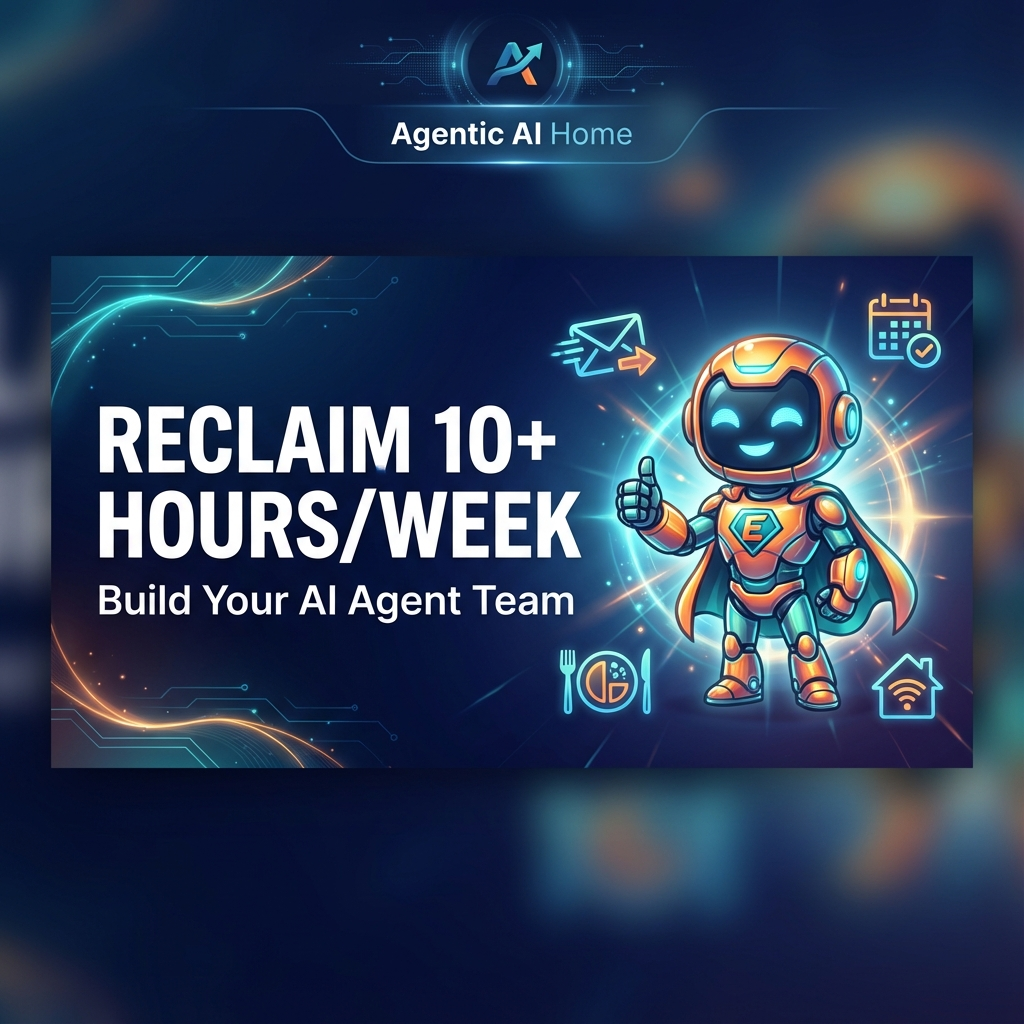
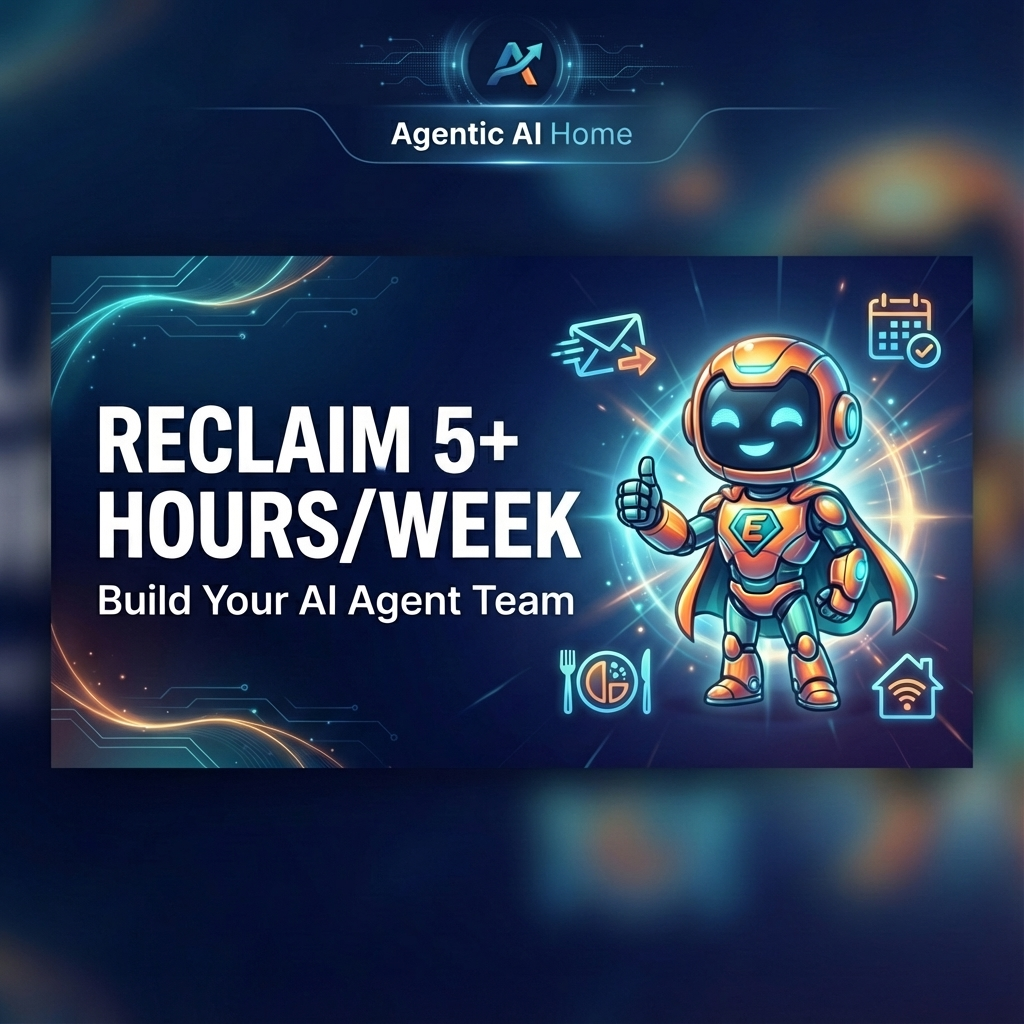
Update hours claims from 10 to 5+, fix game buttons, unlock all games on purchase

diff --git a/src/pages/GamesPage.jsx b/src/pages/GamesPage.jsx
@@ -114,22 +114,8 @@ const GamesPage = () => {
     ], []);
 
     const handleGameClick = (game) => {
-        // Check if unlocked
-        let isUnlocked = !game.unlockCondition;
-        try {
-            // Check if user has paid for full access (Ergo or Stripe)
-            const ergoPayment = JSON.parse(localStorage.getItem('ergo_payment') || '{}');
-            const stripePayment = JSON.parse(localStorage.getItem('stripe_payment') || '{}');
-            if (ergoPayment.paid === true || stripePayment.paid === true) isUnlocked = true;
-
-            isUnlocked = isUnlocked ||
-                localStorage.getItem(`unlocked_part_${game.unlockCondition}`) === 'true' ||
-                localStorage.getItem('beta_access') === 'true';
-        } catch (e) {
-            // Keep default locked state if storage fails
-        }
-
-        if (!isUnlocked) return; // Do nothing if locked (visuals handle the UI)
+        // Use the shared unlock check
+        if (!isGameUnlocked(game)) return;
 
         logEvent('Game', 'Select', game.id);
 
@@ -147,18 +133,22 @@ const GamesPage = () => {
         setLeaderboardOpen(true);
     };
 
-    // Helper to check unlock status
+    // Helper to check unlock status - ALL games unlock with purchase
     const isGameUnlocked = (game) => {
+        // Free games (no unlock condition) are always unlocked
         if (!game.unlockCondition) return true;
+
         try {
-            // Check if user has paid for full access (Ergo or Stripe)
+            // Check if user has paid for full access (Ergo or Stripe) - unlocks ALL games
             const ergoPayment = JSON.parse(localStorage.getItem('ergo_payment') || '{}');
             const stripePayment = JSON.parse(localStorage.getItem('stripe_payment') || '{}');
             if (ergoPayment.paid === true || stripePayment.paid === true) return true;
 
-            // Check beta access or individual part unlock
-            return localStorage.getItem(`unlocked_part_${game.unlockCondition}`) === 'true' ||
-                localStorage.getItem('beta_access') === 'true';
+            // Check beta access (also unlocks all games)
+            if (localStorage.getItem('beta_access') === 'true') return true;
+
+            // Not purchased - game is locked
+            return false;
         } catch (e) {
             return false;
         }
@@ -284,16 +274,16 @@ const GamesPage = () => {
                                                     </div>
                                                     <h3 className="text-xl font-bold text-white mb-2">Locked</h3>
                                                     <p className="text-slate-300 text-sm mb-4">
-                                                        Unlock by reading <strong className="text-teal-400">Part {game.unlockCondition}</strong>
+                                                        Unlock <strong className="text-teal-400">all games</strong> with full access
                                                     </p>
                                                     <button
                                                         onClick={(e) => {
                                                             e.stopPropagation();
-                                                            navigate(`/part${game.unlockCondition}`);
+                                                            navigate('/unlock');
                                                         }}
-                                                        className="px-4 py-2 bg-teal-600 hover:bg-teal-500 rounded-lg text-xs text-white transition-all flex items-center gap-2 font-medium"
+                                                        className="px-4 py-2 bg-gradient-to-r from-teal-500 to-cyan-500 hover:from-teal-400 hover:to-cyan-400 rounded-lg text-sm text-white transition-all flex items-center gap-2 font-bold shadow-lg"
                                                     >
-                                                        Start Part {game.unlockCondition}
+                                                        Start My Agent Army
                                                     </button>
                                                 </div>
                                             )}

diff --git a/src/components/gamification/CaptainClickChallenge.jsx b/src/components/gamification/CaptainClickChallenge.jsx
@@ -708,14 +708,14 @@ const CaptainClickChallenge = ({ onBack }) => {
                                 <div className="flex gap-3 justify-center">
                                     <m.button
                                         whileTap={{ scale: 0.95 }}
-                                        onClick={onBack}
+                                        onClick={(e) => { e.stopPropagation(); onBack?.(); }}
                                         className="bg-slate-700 hover:bg-slate-600 active:bg-slate-800 text-white px-4 sm:px-5 py-3 rounded-xl font-bold transition-all flex items-center gap-2 text-sm sm:text-base"
                                     >
                                         <ArrowLeft size={18} /> Back
                                     </m.button>
                                     <m.button
                                         whileTap={{ scale: 0.95 }}
-                                        onClick={startGame}
+                                        onClick={(e) => { e.stopPropagation(); startGame(); }}
                                         className="bg-gradient-to-r from-orange-600 to-orange-500 hover:from-orange-500 hover:to-orange-400 active:from-orange-700 active:to-orange-600 text-white px-5 sm:px-6 py-3 rounded-xl font-bold shadow-lg transition-all flex items-center gap-2 text-sm sm:text-base"
                                     >
                                         <RotateCcw size={18} /> Again
@@ -728,7 +728,7 @@ const CaptainClickChallenge = ({ onBack }) => {
                                         📸 Screenshot this → Challenge a friend!
                                     </p>
                                     <button
-                                        onClick={shareScore}
+                                        onClick={(e) => { e.stopPropagation(); shareScore(); }}
                                         className="w-full bg-gradient-to-r from-orange-500 to-yellow-500 hover:from-orange-400 hover:to-yellow-400 text-white px-4 py-2.5 rounded-lg font-bold text-sm shadow-lg transition-all flex items-center justify-center gap-2"
                                     >
                                         <Share2 size={16} />

diff --git a/index.html b/index.html
@@ -22,8 +22,8 @@
     <link rel="preload" as="image" href="/assets/captain-pointing-transparent.webp" type="image/webp" fetchpriority="high">
 
     <!-- Primary Meta Tags -->
-    <title>Agentic AI at Home - Reclaim 10 Hours/Week with AI Agents</title>
-    <meta name="title" content="Agentic AI at Home - Reclaim 10 Hours/Week with AI Agents" />
+    <title>Agentic AI at Home - Reclaim 5+ Hours/Week with AI Agents</title>
+    <meta name="title" content="Agentic AI at Home - Reclaim 5+ Hours/Week with AI Agents" />
     <meta name="description"
         content="Build a 'Household Staff' of autonomous AI agents that handle email, calendar, meal planning, and home tasks. Stop drowning in to-do lists. Start deploying agents." />
     <meta name="keywords"
@@ -34,13 +34,13 @@
     <meta property="og:url" content="https://agenticaihome.com/" />
     <meta property="og:title" content="Agentic AI at Home - Automate Your Life with AI Agents" />
     <meta property="og:description"
-        content="Reclaim 10 hours/week. Deploy AI agents that manage your email, calendar, meal planning, and household tasks autonomously. Interactive webbook with copy-paste prompts." />
+        content="Reclaim 5+ hours/week. Deploy AI agents that manage your email, calendar, meal planning, and household tasks autonomously. Interactive webbook with copy-paste prompts." />
     <meta property="og:image" content="https://agenticaihome.com/og/homepage.png" />
 
     <!-- Twitter -->
     <meta name="twitter:card" content="summary_large_image" />
     <meta name="twitter:url" content="https://agenticaihome.com/" />
-    <meta name="twitter:title" content="Agentic AI at Home - Reclaim 10 Hours/Week with AI Agents" />
+    <meta name="twitter:title" content="Agentic AI at Home - Reclaim 5+ Hours/Week with AI Agents" />
     <meta name="twitter:description"
         content="Build autonomous AI agents that handle your household operations. Stop managing 100 things. Start approving 5." />
     <meta name="twitter:image" content="https://agenticaihome.com/og/homepage.png" />

diff --git a/src/components/gamification/FocusFury.jsx b/src/components/gamification/FocusFury.jsx
@@ -562,6 +562,9 @@ const FocusFury = ({ onBack }) => {
         gameStateRef.current = 'dead';
         setGameState('dead');
 
+        // Track death time to prevent accidental restarts when clicking buttons
+        window._focusfuryDeathTime = Date.now();
+
         if (animationFrameRef.current) {
             cancelAnimationFrame(animationFrameRef.current);
         }
@@ -961,14 +964,14 @@ const FocusFury = ({ onBack }) => {
                                 <div className="flex gap-3 justify-center mb-4">
                                     <m.button
                                         whileTap={{ scale: 0.95 }}
-                                        onClick={() => onBack?.()}
+                                        onClick={(e) => { e.stopPropagation(); onBack?.(); }}
                                         className="bg-slate-700 hover:bg-slate-600 active:bg-slate-800 text-white px-4 py-3 rounded-xl font-bold transition-all flex items-center gap-2 text-sm"
                                     >
                                         <ArrowLeft size={18} /> Back
                                     </m.button>
                                     <m.button
                                         whileTap={{ scale: 0.95 }}
-                                        onClick={startGame}
+                                        onClick={(e) => { e.stopPropagation(); startGame(); }}
                                         className="bg-gradient-to-r from-purple-500 to-pink-600 hover:from-purple-400 hover:to-pink-500 text-white px-5 py-3 rounded-xl font-bold shadow-lg transition-all flex items-center gap-2 text-sm"
                                     >
                                         <RotateCcw size={18} /> Fury Again

diff --git a/src/components/gamification/DeepWorkDive.jsx b/src/components/gamification/DeepWorkDive.jsx
@@ -332,6 +332,9 @@ const DeepWorkDive = ({ onBack }) => {
         gameStateRef.current = "dead";
         setGameState("dead");
 
+        // Track death time to prevent accidental restarts when clicking buttons
+        window._deepworkDeathTime = Date.now();
+
         if (animationFrameRef.current) {
             cancelAnimationFrame(animationFrameRef.current);
             animationFrameRef.current = null;
@@ -536,6 +539,16 @@ const DeepWorkDive = ({ onBack }) => {
         (e) => {
             e.preventDefault();
             e.stopPropagation();
+
+            // Don't restart game from taps if recently died (allows button clicks to work)
+            if (gameStateRef.current === "dead") {
+                // Check if enough time has passed since death to allow tap-to-restart
+                const timeSinceDeath = Date.now() - (window._deepworkDeathTime || 0);
+                if (timeSinceDeath < 500) {
+                    return; // Ignore tap, user is probably trying to click buttons
+                }
+            }
+
             jump();
         },
         [jump]
